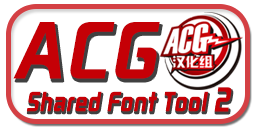
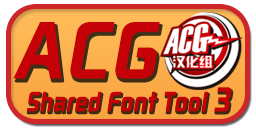
support SYSTEM_MODE 80M game for old 3DS

diff --git a/source/main.c b/source/main.c
@@ -97,7 +97,11 @@ typedef struct FontCodeMap
 } __attribute__((packed)) FontCodeMap;
 
 #define CONVERT_ENDIAN(n) (((n) >> 24 & 0xFF) | ((n) >> 8 & 0xFF00) | (((n) & 0xFF00) << 8) | (((n) & 0xFF) << 24))
+#if SFTSYSTEM_MODE == 64
 #define ADDRESS_NON_NEW_3DS 0x18000000
+#elif SFTSYSTEM_MODE == 80
+#define ADDRESS_NON_NEW_3DS 0x19000000
+#endif
 #define ADDRESS_NEW_3DS 0x1bc00000
 #define GSP_HEAP_START_OFFSET_DEFAULT 0x14000000
 #define GSP_HEAP_START_OFFSET_FIRM80 0x30000000
@@ -344,8 +348,12 @@ int main(int argc, char* argv[])
 	consoleInit(GFX_TOP, &g_TopScreen);
 	consoleInit(GFX_BOTTOM, &g_BottomScreen);
 	romfsInit();
-	const char* pTitle = "Shared Font Tool v2.0";
-	const char* pAuthors = "dnasdw, enler";
+#if SFTSYSTEM_MODE == 64
+	const char* pTitle = "Shared Font Tool v3.0";
+#elif SFTSYSTEM_MODE == 80
+	const char* pTitle = "Big Shared Font Tool v3.0";
+#endif
+	const char* pAuthors = "dnasdw and enler";
 	consoleSelect(&g_BottomScreen);
 	// bottom 2,1
 	printf("\E[%d;1H", g_nBottomCurrentLine++);
@@ -388,6 +396,13 @@ int main(int argc, char* argv[])
 	// top 5,6
 	printf("\E[%d;6H""New3DS: %s", g_nTopCurrentLine++, g_bNew3DS ? "true" : "false");
 	initSharedFontType();
+	s32 nExitPossibility = 2;
+	if (!g_bNew3DS)
+	{
+#if SFTSYSTEM_MODE == 64
+		nExitPossibility = 0;
+#endif
+	}
 	s32 nRecoverPossibility = g_uSharedFontType == SHARED_FONT_TYPE_STD || g_uSharedFontType == SHARED_FONT_TYPE_CN || g_uSharedFontType == SHARED_FONT_TYPE_KR || g_uSharedFontType == SHARED_FONT_TYPE_TW ? 2 : 0;
 	s32 nChangeFontPossibility[FONT_COUNT] = {};
 	nChangeFontPossibility[0] = g_uSharedFontType == SHARED_FONT_TYPE_STD || g_uSharedFontType == SHARED_FONT_TYPE_CN || g_uSharedFontType == SHARED_FONT_TYPE_KR || g_uSharedFontType == SHARED_FONT_TYPE_TW ? 2 : 0;
@@ -476,7 +491,18 @@ int main(int argc, char* argv[])
 	// top 28,6
 	printf("\E[%d;6H""\E[0;%dm""Press SELECT : recover font""\E[0m", g_nTopCurrentLine++, nColor[nRecoverPossibility]);
 	// top 29,6
-	printf("\E[%d;6H""Press START  : exit", g_nTopCurrentLine++);
+	if (g_bNew3DS)
+	{
+		printf("\E[%d;6H""Press START  : exit", g_nTopCurrentLine++);
+	}
+	else
+	{
+#if SFTSYSTEM_MODE == 64
+		printf("\E[%d;6H""Press START  : exit", g_nTopCurrentLine++);
+#else
+		printf("\E[%d;6H""Press HOME   : for start the game manually", g_nTopCurrentLine++);
+#endif
+	}
 	clearTop();
 	consoleSelect(&g_BottomScreen);
 	while (aptMainLoop())
@@ -486,7 +512,10 @@ int main(int argc, char* argv[])
 		u32 uKeysDown = hidKeysDown();
 		if ((uKeysDown & KEY_START) != 0)
 		{
-			break;
+			if (nExitPossibility != 0)
+			{
+				break;
+			}
 		}
 		else if ((uKeysDown & KEY_SELECT) != 0)
 		{
